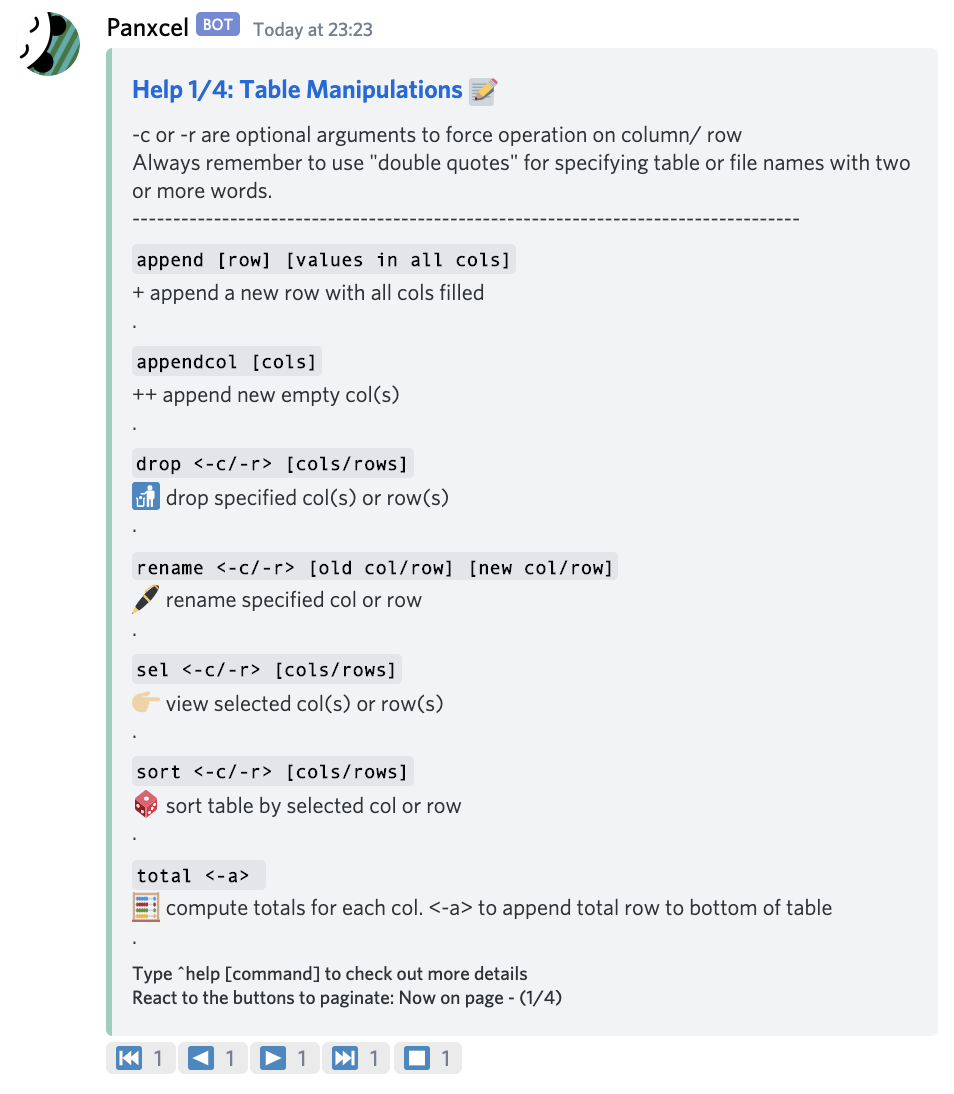
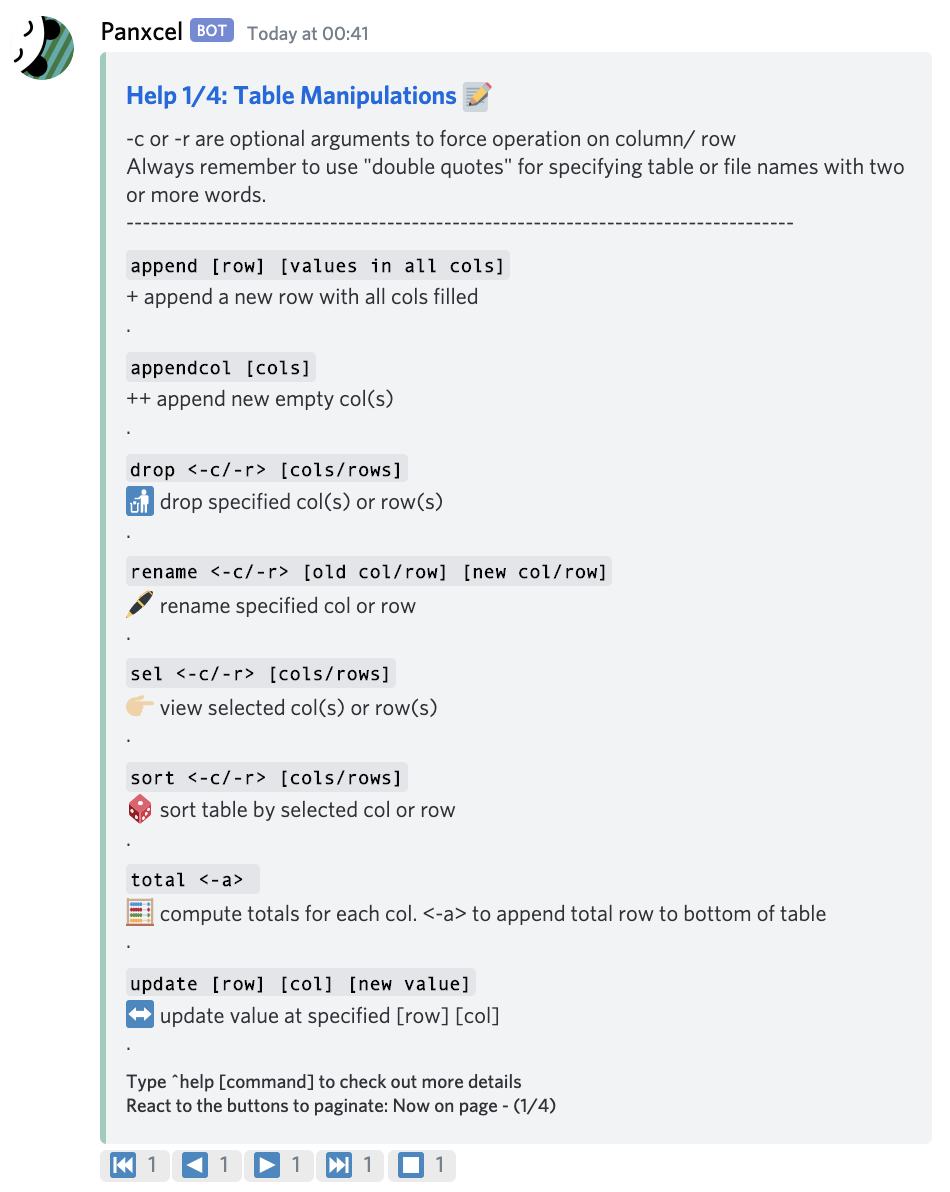
update specific row col

Changed region(s): [[0.0, 0.0, 0.9463, 0.9945]]

diff --git a/main_OOP.py b/main_OOP.py
@@ -173,7 +173,7 @@ class cluelessBot(commands.Bot):
 				self.file_dict[self.ID] = self.file_name
 				self.appending_dict[self.ID] = self.appending
 				self.df_dict[self.ID] = dict_append(self.df_dict[self.ID], self.df)
-				     
+					 
 		@self.command(name = 'open', pass_context=True, help = ' [filename]')
 		async def _open(context, *args):
 			if len(args) == 0:
@@ -341,6 +341,31 @@ class cluelessBot(commands.Bot):
 				await context.message.channel.send('❌ File not found in trash. System error: ' + str(e))	
 
 		########## PANDA COMMANDS ##########
+
+		@self.command(name = 'update', pass_context=True)
+		async def _update(context, *args):
+			self.ID = context.guild.id
+			if self.appending_dict[self.ID] == True:
+				try:
+					# Load File
+					self.file_name = self.file_dict[self.ID]
+					self.appending = self.appending_dict[self.ID]
+					self.df = self.df_dict[self.ID][-1]
+
+					# Identify Position
+					row = args[0]
+					col = args[1]
+					value = args[2]
+					self.df.at[row,col] = value
+
+					save_file(self.df, self.ID, self.file_name)
+					await context.message.channel.send("👇 Amended the table: " + self.file_name)
+					await fprint(context, self.file_name, self.df)
+					self.df_dict[self.ID] = dict_append(self.df_dict[self.ID], self.df)
+				except Exception as e:
+					await context.message.channel.send('❌ System error: ' + str(e))
+			else:
+				await context.message.channel.send('❓ You don\'t have a table opened.')
 
 		@self.command(name = 'append', pass_context=True, help = '[row name or index label] [values in order of columns]')
 		async def _append(context, *args):

diff --git a/help_cmd.py b/help_cmd.py
@@ -117,6 +117,11 @@ panda_list = [
         "arguments": "<-a> ",
         "description": "🧮 compute totals for each col. <-a> to append total row to bottom of table",
     },
+    {
+        "name": "update",
+        "arguments": "[row] [col] [new value]",
+        "description": "↔ update value at [row, col]",
+    },
 ]
 
 all_list = fileop_list + trash_list + misc_list + panda_list

diff --git a/README.md b/README.md
@@ -21,7 +21,7 @@ This is a list of all commands available, which can be viewed upon calling `^hel
 
 <p float="centre">
   <img src="screenshots/help3.png" width="500" />
-  <img src="screenshots/help3.png", width="500" /> 
+  <img src="screenshots/help4.png", width="500" /> 
 </p>
 
 ## Quick walkthrough
